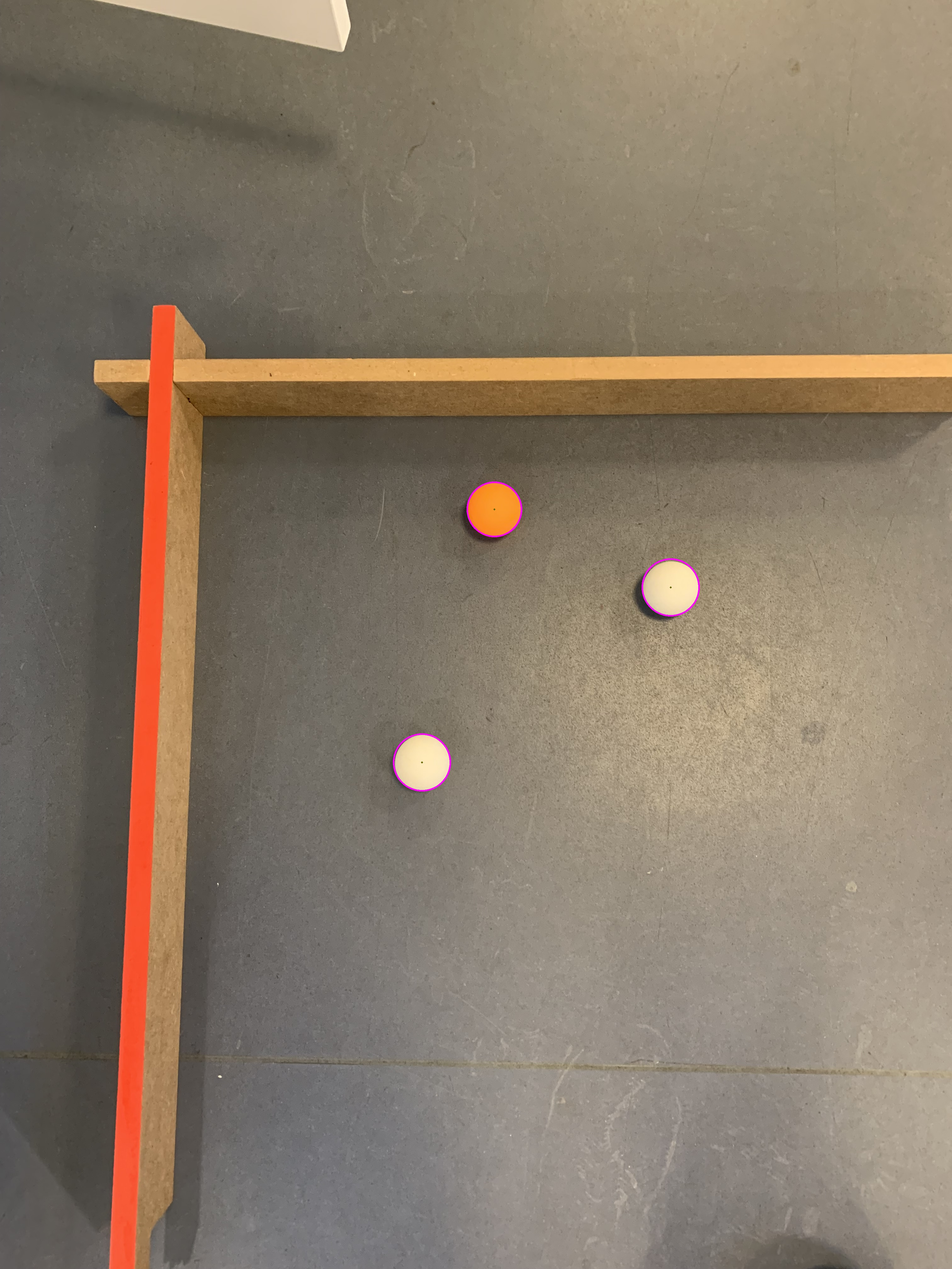
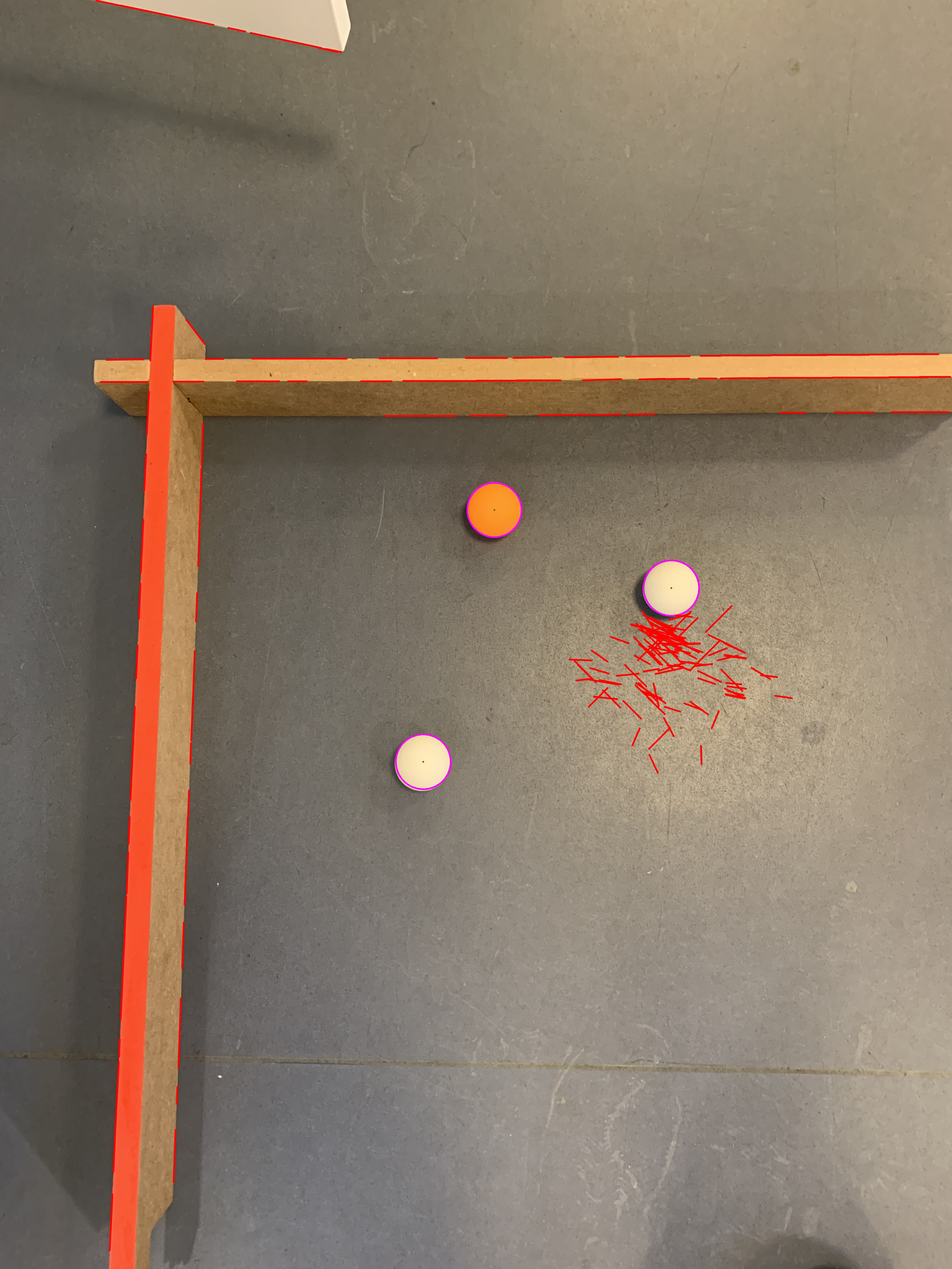
Added detect lines

diff --git a/PreprocessImage.py b/PreprocessImage.py
@@ -42,7 +42,7 @@ if image is not None:
     
     
     rows = gray.shape[0]
-    circles = cv2.HoughCircles(median, cv2.HOUGH_GRADIENT, 1, rows / 8,param1=100, param2=30,minRadius=10, maxRadius=100)
+    circles = cv2.HoughCircles(blurred, cv2.HOUGH_GRADIENT, 1, rows / 8,param1=100, param2=30,minRadius=10, maxRadius=100)
 
     print("Before If")
 
@@ -59,8 +59,11 @@ if image is not None:
     print("After if")
     
 
-
-    
+    linesP = cv2.HoughLinesP(canny, 1, np.pi / 180, 50, None, 50, 10)
+    if linesP is not None:
+        for i in range(0, len(linesP)):
+            l = linesP[i][0]
+            cv2.line(image, (l[0], l[1]), (l[2], l[3]), (0,0,255), 3, cv2.LINE_AA)
     
     #median = cv2.medianBlur(gray,5)
     #blurred = cv2.GaussianBlur(median, (5, 5), 0)
